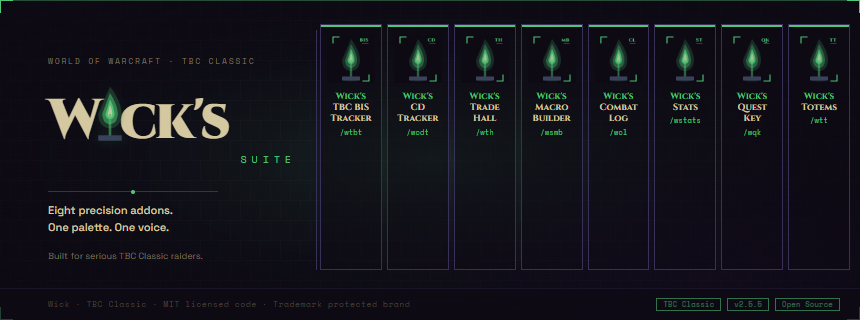
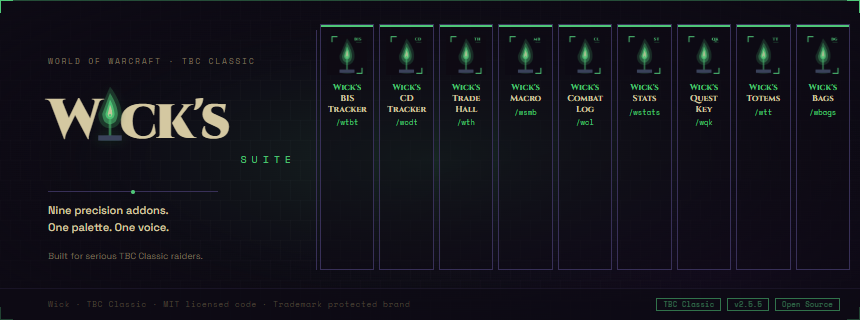
Add Wick's Bags to suite grid + bump count to nine

Changed region(s): [[0.3628, 0.0625, 0.9977, 0.8438], [0.0605, 0.625, 0.2116, 0.6875]]

diff --git a/index.html b/index.html
@@ -4,7 +4,7 @@
 <meta charset="UTF-8">
 <meta name="viewport" content="width=device-width, initial-scale=1">
 <title>Wick's Mods — Precision Addons for TBC Classic</title>
-<meta name="description" content="Eight precision addons for TBC Classic. One palette, one voice, one chrome. Wick's TBC BIS Tracker, CD Tracker, Trade Hall, Macro Builder, Combat Log.">
+<meta name="description" content="Nine precision addons for TBC Classic. One palette, one voice, one chrome. Wick's TBC BIS Tracker, CD Tracker, Trade Hall, Macro Builder, Combat Log.">
 
 <!-- Favicon -->
 <link rel="icon" type="image/png" sizes="256x256" href="images/favicon.png">
@@ -14,11 +14,11 @@
      swap back to wicksmods.io after DNS is wired) -->
 <meta property="og:type" content="website">
 <meta property="og:title" content="Wick's Mods — Precision Addons for TBC Classic">
-<meta property="og:description" content="Eight precision addons. One locked palette. One voice. Built to be read at-a-glance during combat.">
+<meta property="og:description" content="Nine precision addons. One locked palette. One voice. Built to be read at-a-glance during combat.">
 <meta property="og:image" content="https://wicksmods.github.io/images/suite/banner-2x.png">
 <meta property="og:image:width" content="1720">
 <meta property="og:image:height" content="640">
-<meta property="og:image:alt" content="Wick's Suite — eight precision addons for TBC Classic, displayed as branded vertical cards.">
+<meta property="og:image:alt" content="Wick's Suite — nine precision addons for TBC Classic, displayed as branded vertical cards.">
 <meta property="og:url" content="https://wicksmods.github.io">
 <meta property="og:site_name" content="Wick's Mods">
 
@@ -27,9 +27,9 @@
 <meta name="twitter:site" content="@wicksmods">
 <meta name="twitter:creator" content="@wicksmods">
 <meta name="twitter:title" content="Wick's Mods — Precision Addons for TBC Classic">
-<meta name="twitter:description" content="Eight precision addons. One locked palette. One voice.">
+<meta name="twitter:description" content="Nine precision addons. One locked palette. One voice.">
 <meta name="twitter:image" content="https://wicksmods.github.io/images/suite/banner-2x.png">
-<meta name="twitter:image:alt" content="Wick's Suite — eight precision addons for TBC Classic.">
+<meta name="twitter:image:alt" content="Wick's Suite — nine precision addons for TBC Classic.">
 
 <!-- Theme color (mobile browser chrome) -->
 <meta name="theme-color" content="#0D0A14">
@@ -550,7 +550,6 @@
 
     <!-- Totems and Things -->
     <div class="card">
-      <div class="new-badge">New</div>
       <div class="br tl"><div class="h"></div><div class="v"></div></div>
       <div class="br tr"><div class="h"></div><div class="v"></div></div>
       <div class="br bl"><div class="h"></div><div class="v"></div></div>
@@ -565,6 +564,27 @@
         <div class="card-actions">
           <a href="https://www.curseforge.com/wow/addons/wicks-totems-and-things" class="card-btn cf">CurseForge</a>
           <a href="https://github.com/Wicksmods/WicksTotemsAndThings" class="card-btn">GitHub</a>
+        </div>
+      </div>
+    </div>
+
+    <!-- Bags -->
+    <div class="card">
+      <div class="new-badge">New</div>
+      <div class="br tl"><div class="h"></div><div class="v"></div></div>
+      <div class="br tr"><div class="h"></div><div class="v"></div></div>
+      <div class="br bl"><div class="h"></div><div class="v"></div></div>
+      <div class="br br"><div class="h"></div><div class="v"></div></div>
+      <div class="card-thumb">
+        <img src="images/bags/thumb.png" alt="Wick's Bags">
+      </div>
+      <div class="card-meta">
+        <div class="card-name"><span class="apo">Wick's</span> Bags</div>
+        <div class="card-tagline">Categorized bag and bank panels for TBC Classic. Auto-categorize, masonry layout, ItemRack integration, secure right-click for combat consumables.</div>
+        <div class="card-slash">/wbags</div>
+        <div class="card-actions">
+          <a href="https://www.curseforge.com/wow/addons/wicks-bags" class="card-btn cf">CurseForge</a>
+          <a href="https://github.com/Wicksmods/WicksBags" class="card-btn">GitHub</a>
         </div>
       </div>
     </div>

diff --git a/README.md b/README.md
@@ -1,6 +1,6 @@
 # Wick's Mods
 
-Static landing page for the **Wick suite** — eight precision addons for World of Warcraft TBC Classic.
+Static landing page for the **Wick suite** — nine precision addons for World of Warcraft TBC Classic.
 
 🌐 **Live site:** [wicksmods.io](https://wicksmods.io)
 
